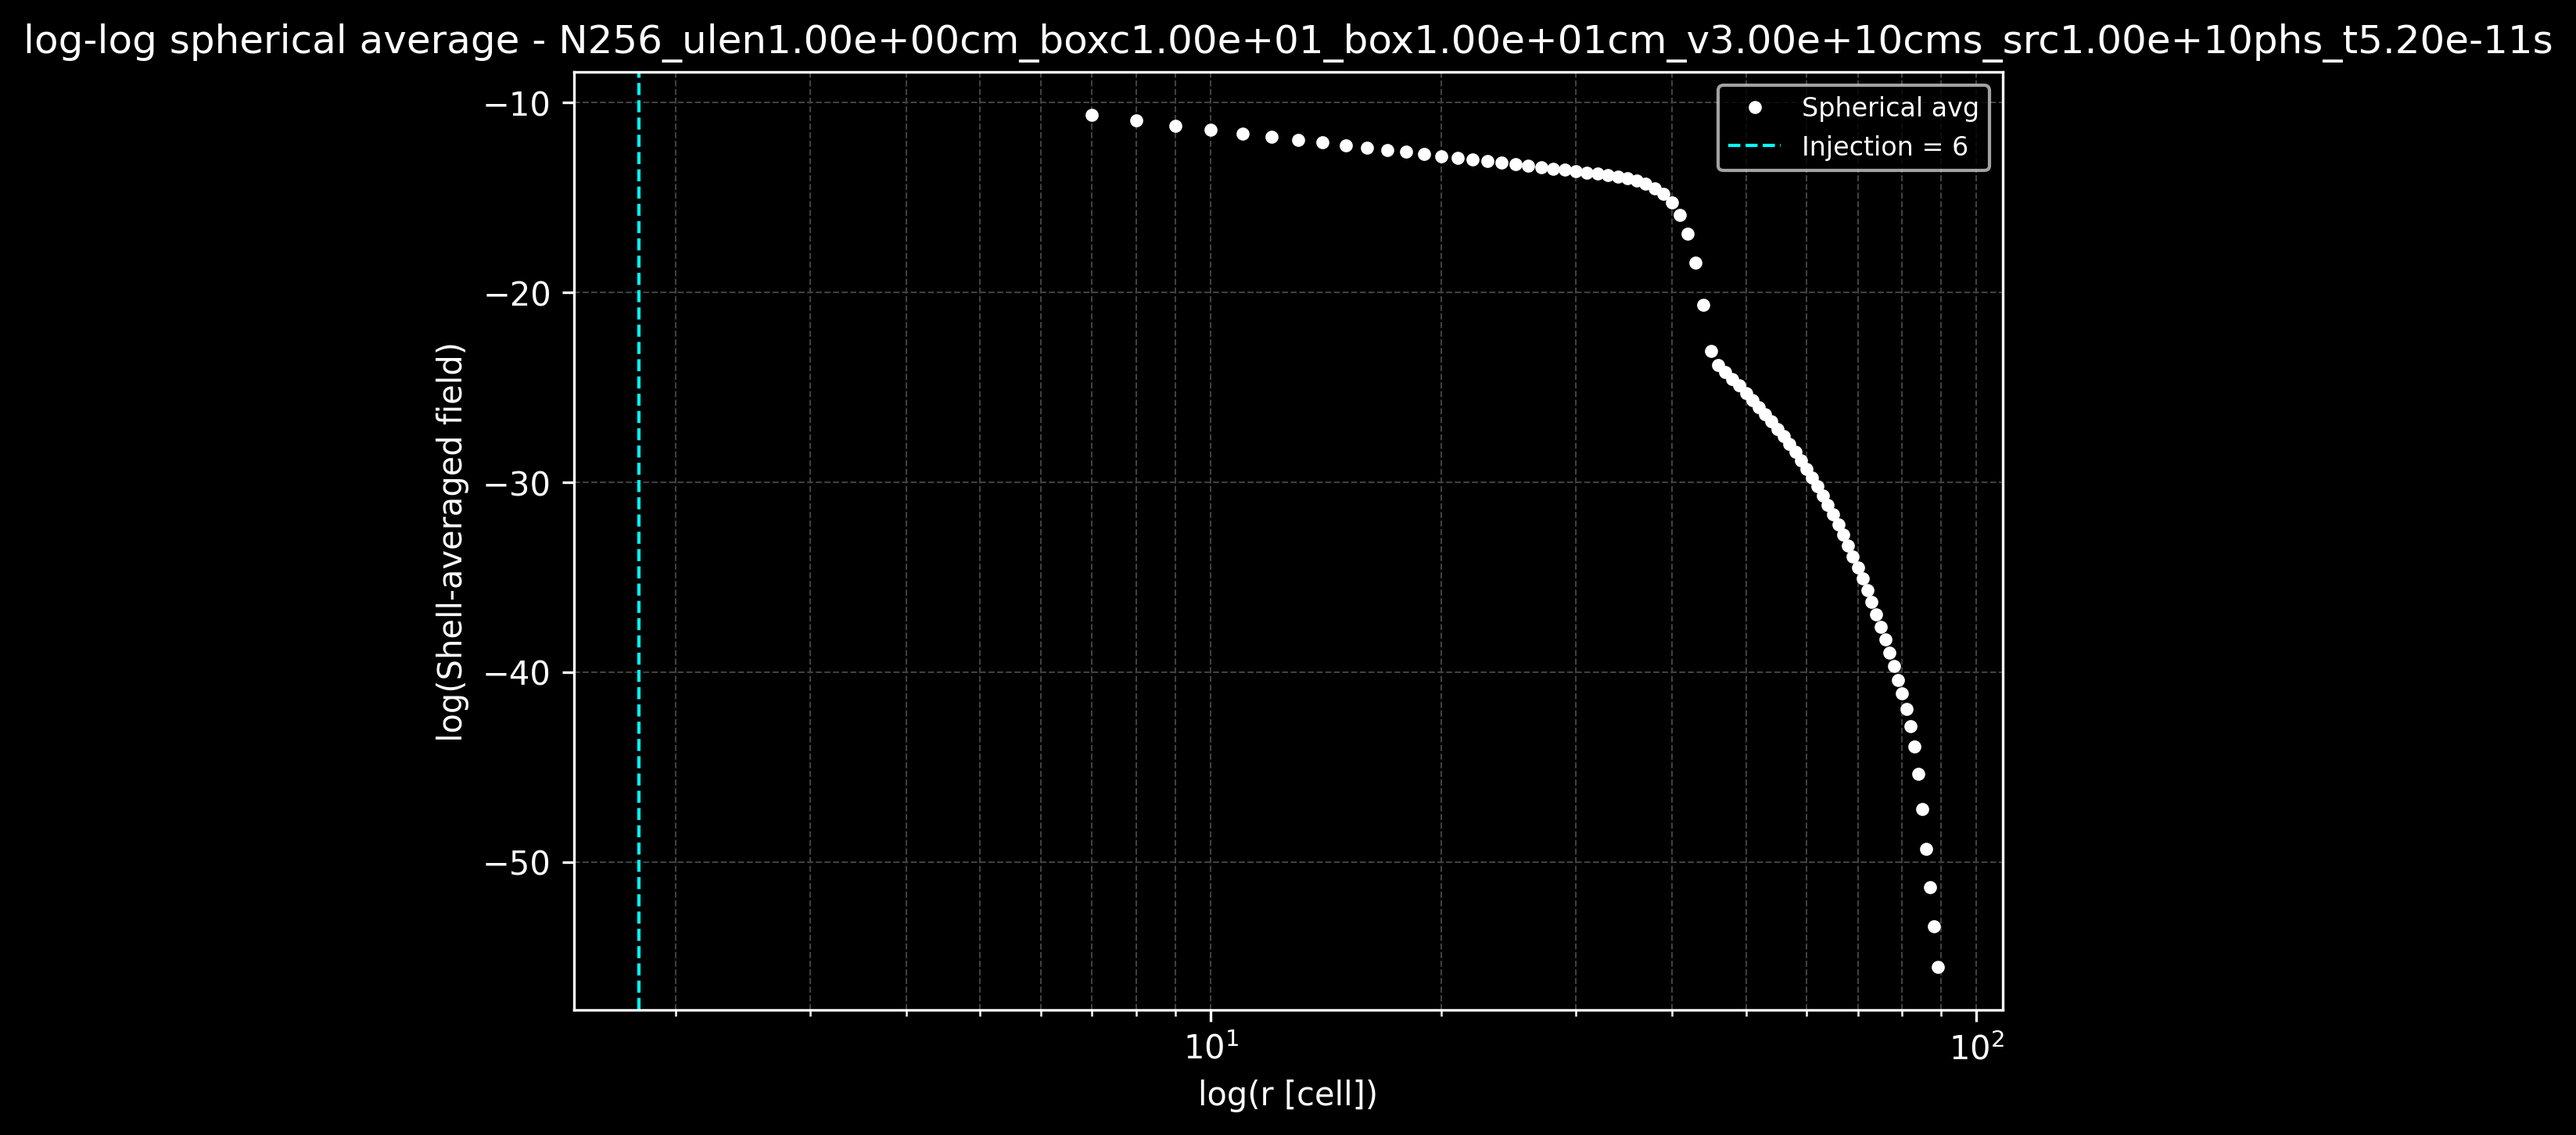
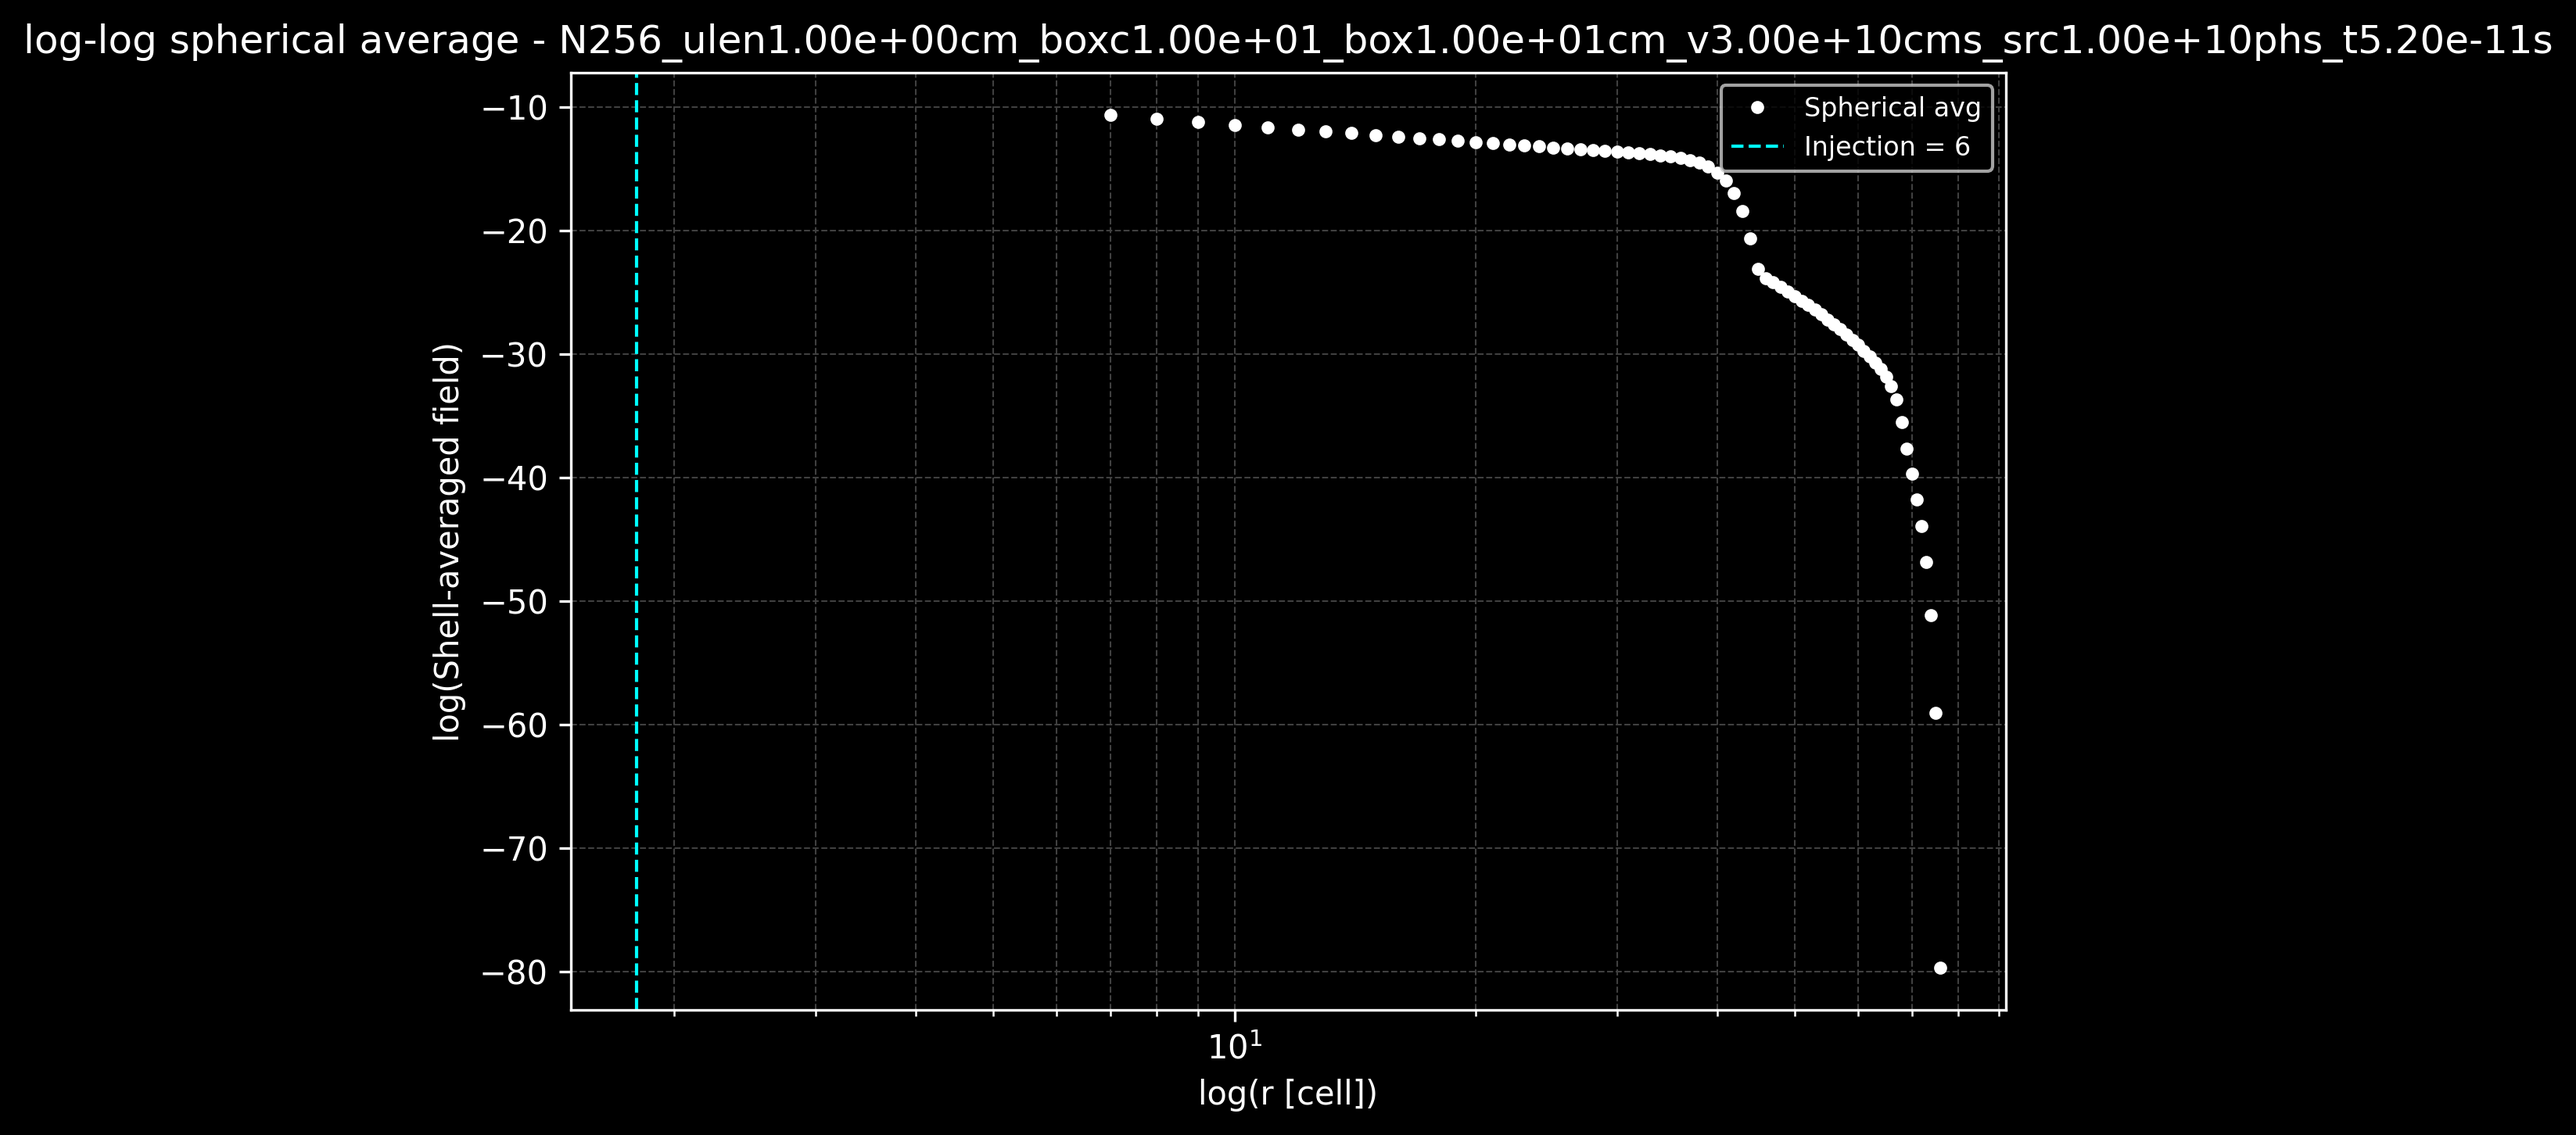
check transposed and other direction of box 10cm with the weird diffusion

diff --git a/examples/athena/reference_regression_fixed_final.py b/examples/athena/reference_regression_fixed_final.py
@@ -121,7 +121,7 @@ print("Backend:", jax.default_backend(), jax.devices())
 size_shape         = int(os.environ.get("N", 256))
 # --- free inputs of the new convention ------------------------------
 unit_length_phys   = float(os.environ.get("ULEN", 1))      # cm  <- 1 code length unit
-box_width_phys     = float(os.environ.get("BOXPHYS", 3.2))   # physical length units cm
+box_width_phys     = float(os.environ.get("BOXPHYS", 10))   # physical length units cm
 # box_width_code     = float(os.environ.get("BOXCODE", 3.2))   # code length units
 unit_velocity_phys = float(os.environ.get("UVEL", 3e10))     # cm/s <- 1 code velocity unit
 
@@ -380,6 +380,34 @@ out = os.path.join(BASE_OUTPUT_DIR, f"field_test_fixed_units_{run_tag}.png")
 plt.savefig(out, dpi=150, bbox_inches="tight")
 print("wrote", out)
 
+E_slice = E_cell[c, :, :]          # photons per cell
+extent  = compute_extent_phys(size_shape,centered=False)
+fig, ax = plt.subplots(figsize=(6, 5))
+pos = E_slice[E_slice > 0]
+im = ax.imshow(np.ma.masked_less_equal(E_slice, 0.0), origin="lower", cmap="hot",
+               extent=extent, norm=LogNorm(vmin=max(pos.min(), peak * 1e-12), vmax=peak))
+ax.set_xlabel("y [cm]"); ax.set_ylabel("x [cm]")
+ax.set_title(f"Photons/cell, t = {t_phys:.2e} s  (ct = {c_cgs*t_phys/dx_phys:.0f} cells)")
+fig.colorbar(im, ax=ax, label="photons per cell")
+plt.tight_layout()
+out = os.path.join(BASE_OUTPUT_DIR, f"field_test_fixed_units_{run_tag}_yz.png")
+plt.savefig(out, dpi=150, bbox_inches="tight")
+print("wrote", out)
+
+E_slice = E_cell[:, c, :]          # photons per cell
+extent  = compute_extent_phys(size_shape,centered=False)
+fig, ax = plt.subplots(figsize=(6, 5))
+pos = E_slice[E_slice > 0]
+im = ax.imshow(np.ma.masked_less_equal(E_slice, 0.0), origin="lower", cmap="hot",
+               extent=extent, norm=LogNorm(vmin=max(pos.min(), peak * 1e-12), vmax=peak))
+ax.set_xlabel("y [cm]"); ax.set_ylabel("x [cm]")
+ax.set_title(f"Photons/cell, t = {t_phys:.2e} s  (ct = {c_cgs*t_phys/dx_phys:.0f} cells)")
+fig.colorbar(im, ax=ax, label="photons per cell")
+plt.tight_layout()
+out = os.path.join(BASE_OUTPUT_DIR, f"field_test_fixed_units_{run_tag}_xz.png")
+plt.savefig(out, dpi=150, bbox_inches="tight")
+print("wrote", out)
+
 
 # raw solver field = density in code units, axes in cell indices
 fig, ax = plt.subplots(figsize=(6, 5))
@@ -394,6 +422,45 @@ out = os.path.join(BASE_OUTPUT_DIR, f"field_test_fixed_units_{run_tag}_brut.png"
 plt.savefig(out, dpi=150, bbox_inches="tight")
 print("wrote", out)
 
+
+# champ transposé (axes x/y inversés) — utile pour vérifier l'isotropie de la source
+fig, ax = plt.subplots(figsize=(6, 5))
+E_slice_code_T = E_slice_code.T
+pos_code_T = E_slice_code_T[E_slice_code_T > 0]
+im = ax.imshow(np.ma.masked_less_equal(E_slice_code_T, 0.0), origin="lower", cmap="hot")
+ax.set_xlabel("x cell"); ax.set_ylabel("y cell")
+ax.set_title(f"E_gamma code (transposed), t = {t_phys:.2e} s  "
+             f"(ct = {c_cgs*t_phys/dx_phys:.0f} cells)")
+fig.colorbar(im, ax=ax, label="photons per code volume")
+plt.tight_layout()
+out = os.path.join(BASE_OUTPUT_DIR, f"field_test_fixed_units_{run_tag}_brut_transposed.png")
+plt.savefig(out, dpi=150, bbox_inches="tight")
+print("wrote", out)
+
+fig, ax = plt.subplots(figsize=(6, 5))
+E_slice_code_T = E_slice_code.T
+im = ax.imshow(np.log10(np.ma.masked_less_equal(E_slice_code_T, 0.0)), origin="lower", cmap="hot")
+ax.set_xlabel("x cell"); ax.set_ylabel("y cell")
+ax.set_title(f"log10 E_gamma code (transposed), t = {t_phys:.2e} s  "
+             f"(ct = {c_cgs*t_phys/dx_phys:.0f} cells)")
+fig.colorbar(im, ax=ax, label="log10 photons per code volume")
+plt.tight_layout()
+out = os.path.join(BASE_OUTPUT_DIR, f"field_test_fixed_units_{run_tag}_brut_log_transposed.png")
+plt.savefig(out, dpi=150, bbox_inches="tight")
+print("wrote", out)
+
+fig, ax = plt.subplots(figsize=(6, 5))
+E_slice_code = E_cell[:, :, c]
+E_slice_code_T = E_slice_code.T
+im = ax.imshow(np.log10(np.ma.masked_less_equal(E_slice_code_T-E_slice_code, 0.0)), origin="lower", cmap="hot")
+ax.set_xlabel("x cell"); ax.set_ylabel("y cell")
+ax.set_title(f"log10 E_gamma code (transposed), t = {t_phys:.2e} s  "
+             f"(ct = {c_cgs*t_phys/dx_phys:.0f} cells)")
+fig.colorbar(im, ax=ax, label="log10 photons per code volume")
+plt.tight_layout()
+out = os.path.join(BASE_OUTPUT_DIR, f"field_test_fixed_units_{run_tag}_brut_log_transposed-normal.png")
+plt.savefig(out, dpi=150, bbox_inches="tight")
+print("wrote", out)
 
 fig, ax = plt.subplots(figsize=(6, 5))
 im = ax.imshow(np.log10(np.ma.masked_less_equal(E_slice_code, 0.0)), origin="lower", cmap="hot")
